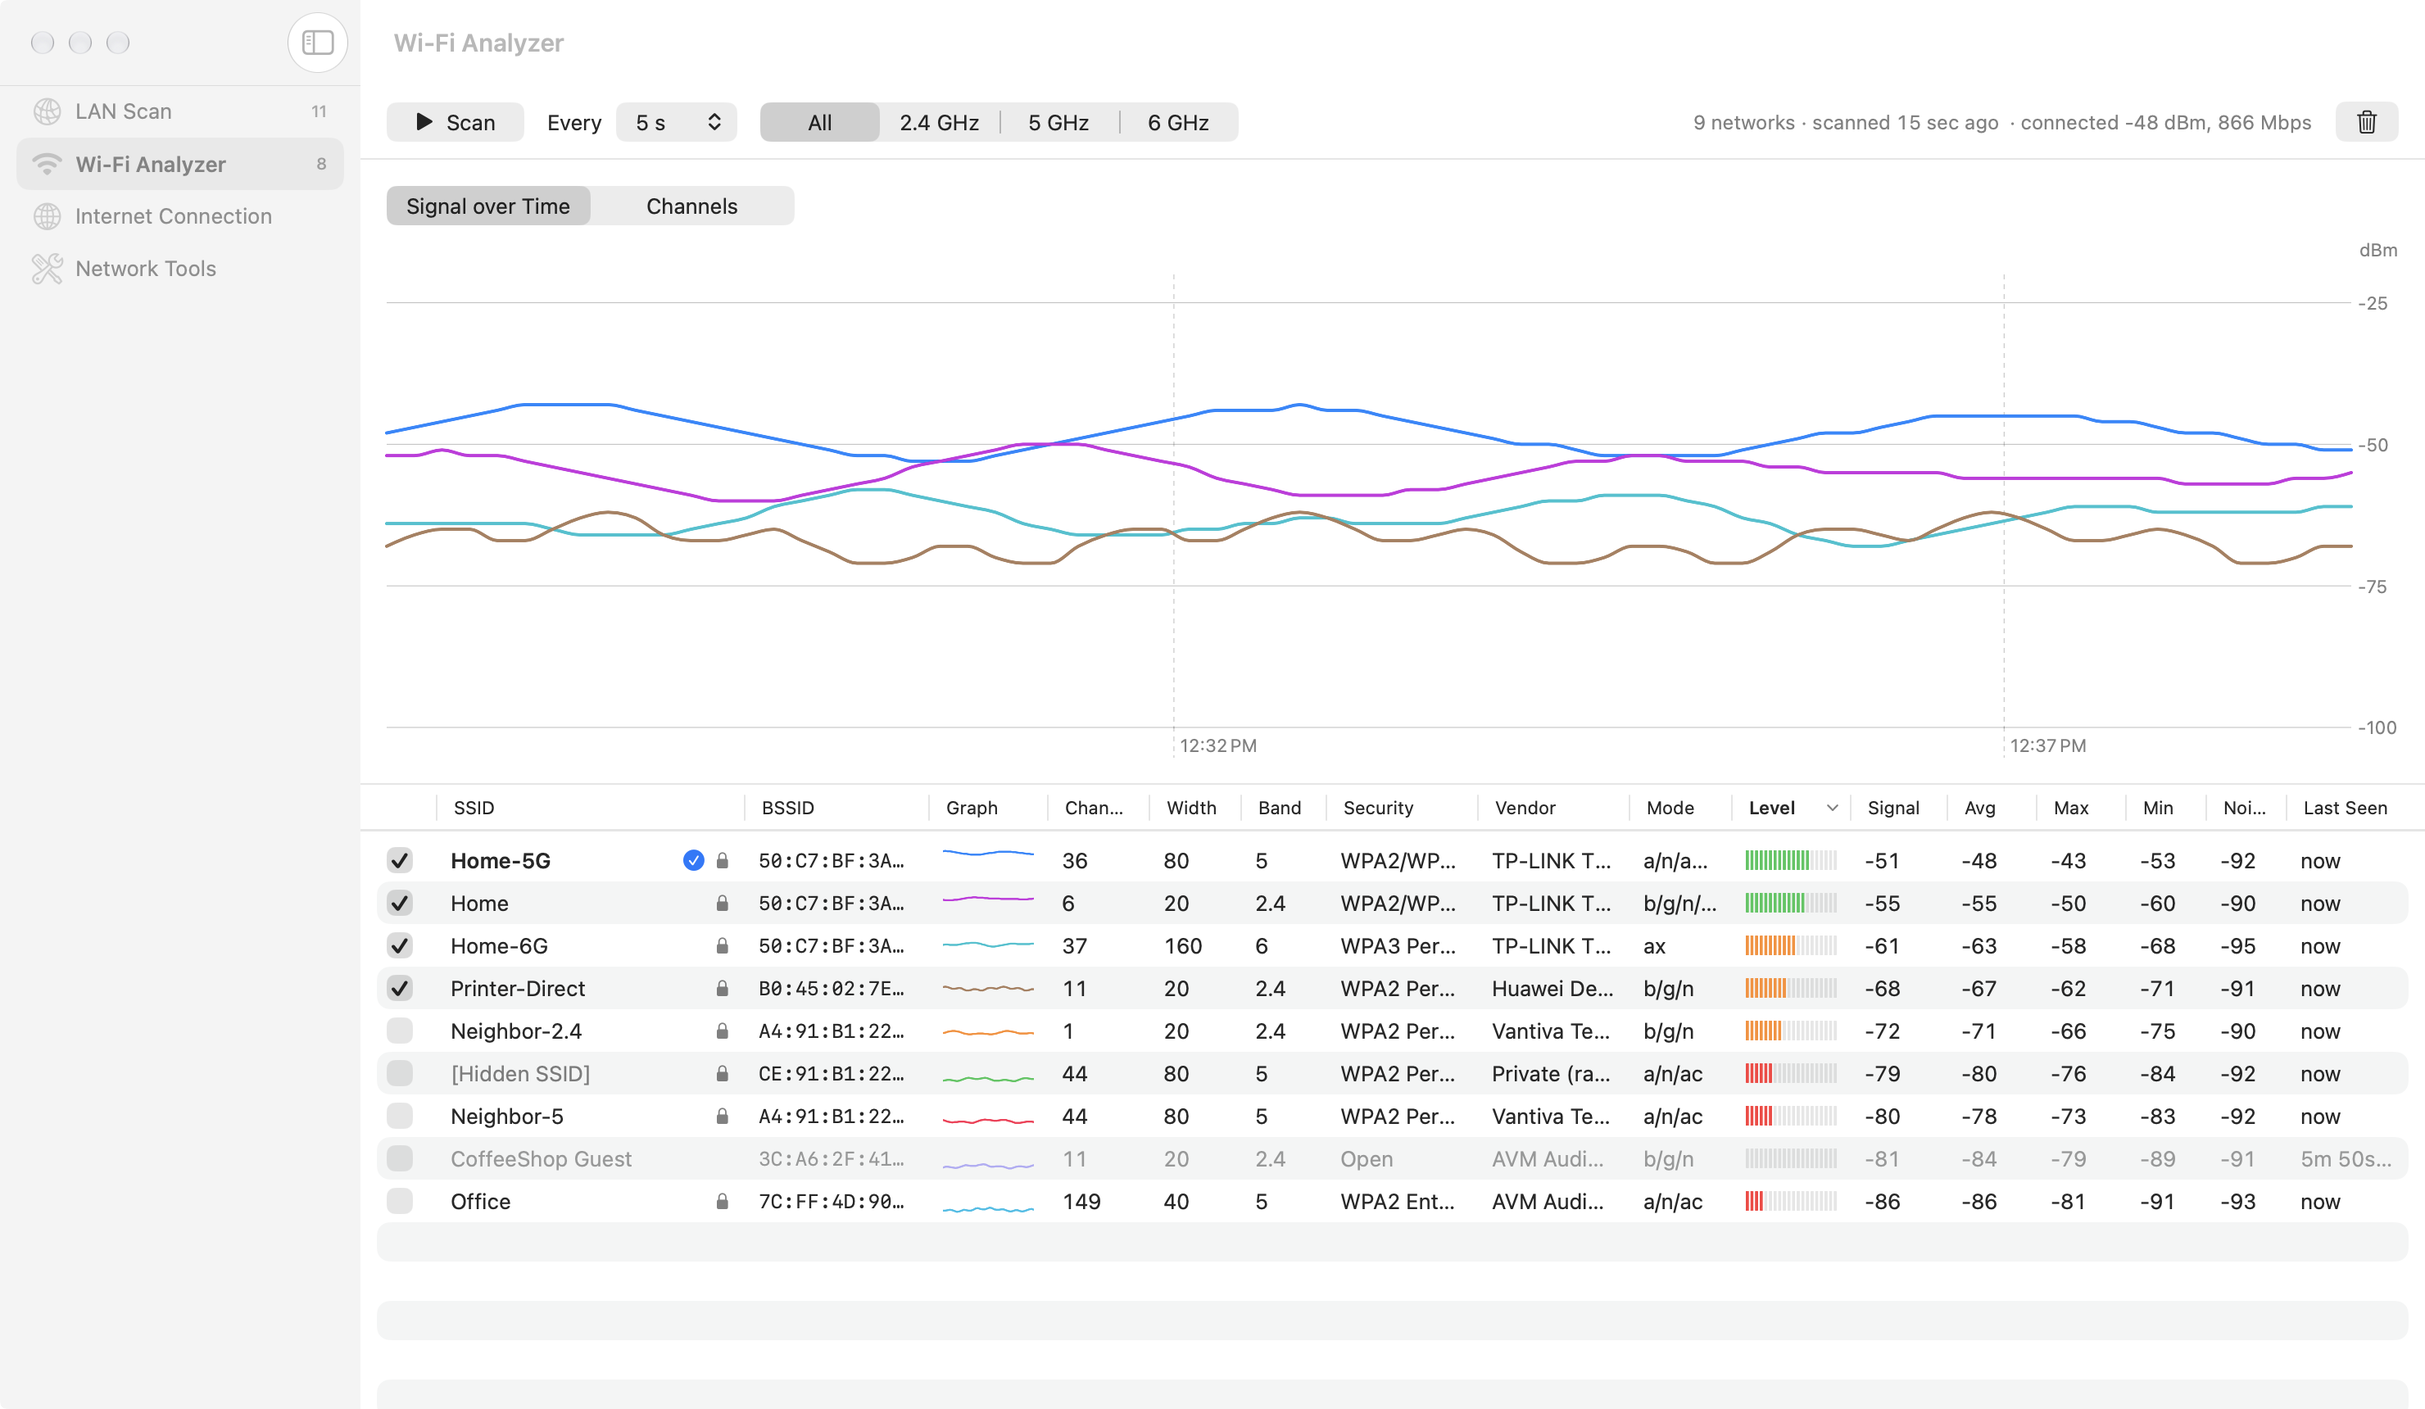
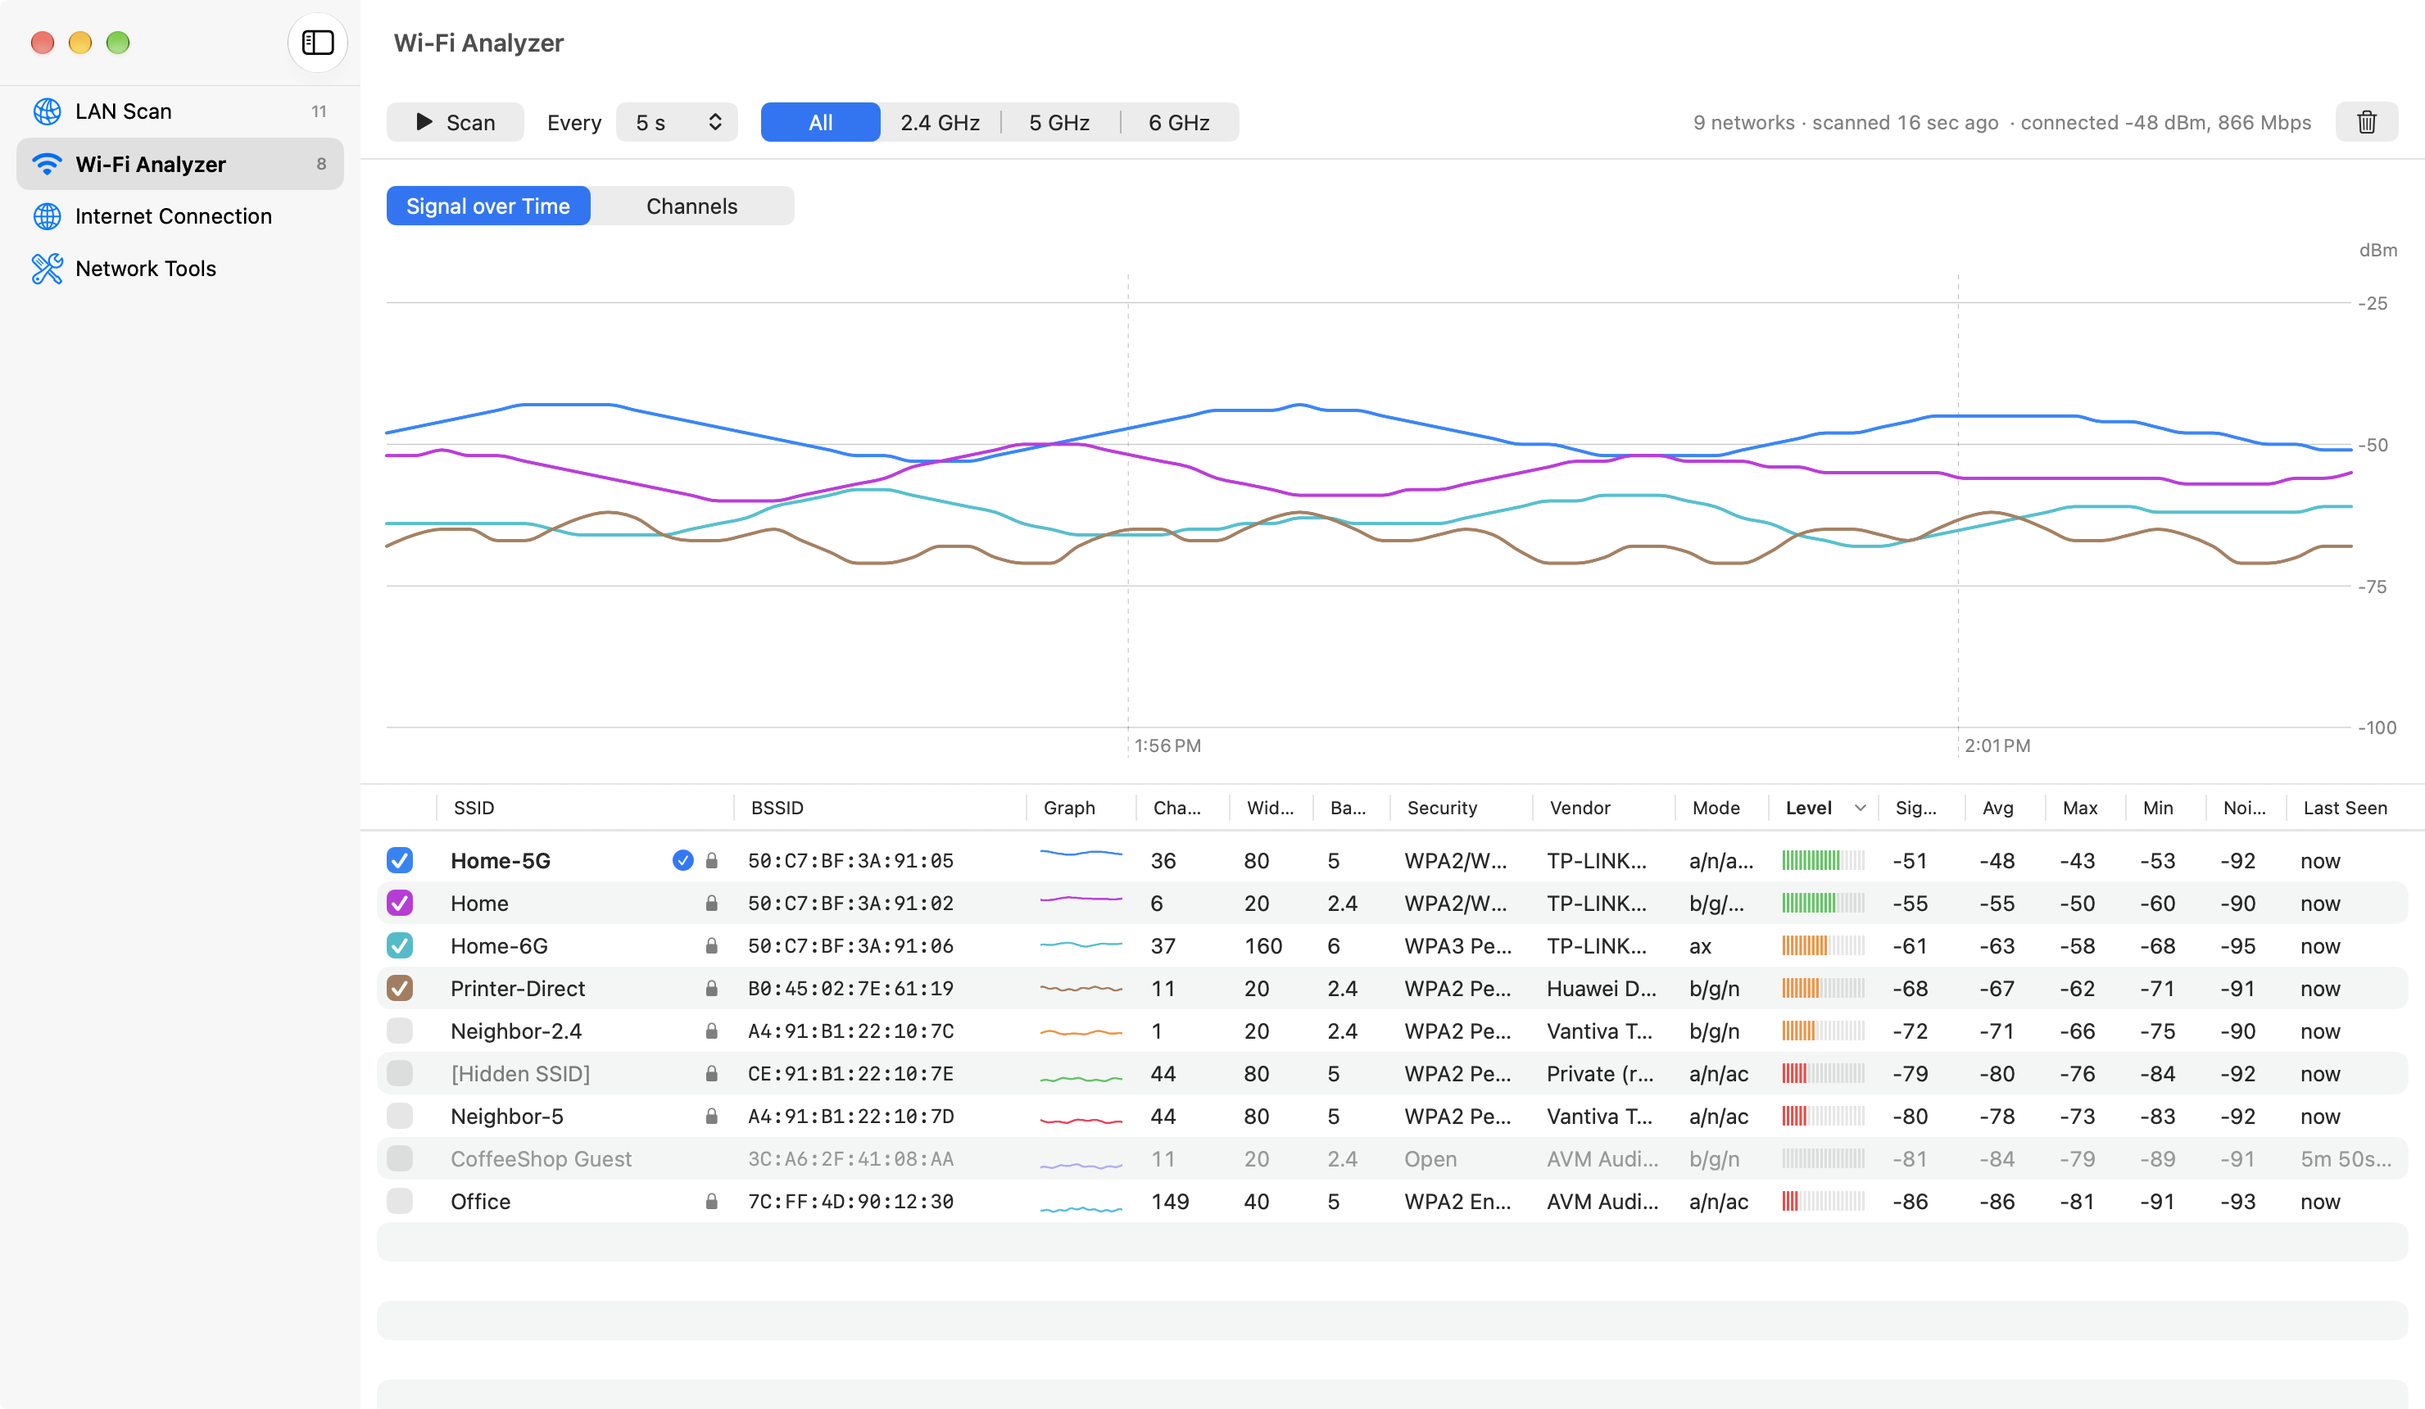
README: refresh for the one-window app, new screenshots
New tagline and overview covering the four sidebar sections, an Install
section (DMG and Gatekeeper), features in sidebar order, a device-history
section with its own screenshot, and every screenshot retaken with the
window active.

diff --git a/README.md b/README.md
@@ -5,7 +5,8 @@
 <h1 align="center">NetScanner</h1>
 
 <p align="center">
-  A native macOS network scanner: discover every device on your LAN, see who it is, ping it and scan its ports.<br>
+  A native macOS network toolkit: discover and identify every device on your LAN, analyze nearby Wi-Fi,<br>
+  check your Internet connection and speed, and run ping, traceroute, DNS and whois — all in one window.<br>
   SwiftUI · macOS 15+ · App Sandbox · no root required
 </p>
 
@@ -13,18 +14,31 @@
 
 ## Overview
 
-NetScanner sweeps the subnets of your Mac's network interfaces and lists every device that answers: its IPv4 and IPv6 addresses, MAC address, vendor, name and latency. Select a host to see everything that was detected about it, give it your own name and a comment, run a continuous ping with live statistics, or scan its TCP ports, with web interfaces turned into clickable links.
+Everything lives in one window, with a sidebar for its four sections:
 
-Everything lives in one window: the sidebar switches between **LAN Scan**, **Wi-Fi Analyzer**, **Internet Connection** and **Network Tools**.
+- **LAN Scan** sweeps the subnets of your Mac's network interfaces and lists every device that answers: IPv4 and IPv6 addresses, MAC, vendor, type, model, name and latency. Select a host to see everything detected about it, give it your own name and a comment, ping it with live statistics, scan its TCP/UDP ports or look at the IP addresses it has used over time.
+- **Wi-Fi Analyzer** lists the access points around you with their channel, band, security and signal, charted over time or across channels.
+- **Internet Connection** shows your ISP and public addresses and measures your speed.
+- **Network Tools** runs ping, traceroute, DNS lookup and whois against any domain or address.
 
 It runs entirely inside the macOS App Sandbox and needs no administrator privileges or helper tools.
 
 ![Hosts found on a home network, with the inspector showing the details of a NAS](docs/screenshots/hosts.png)
 
+## Install
+
+Download the latest `NetScanner-<version>.dmg` from [Releases](https://github.com/lsrur/NetScanner/releases/latest), open it and drag NetScanner to Applications.
+
+The app is ad-hoc signed (no Apple Developer ID), so macOS blocks the first launch. Either try to open it once, then go to **System Settings → Privacy & Security** and click **Open Anyway**, or run:
+
+```sh
+xattr -dr com.apple.quarantine /Applications/NetScanner.app
+```
+
 ## Features
 
-### Host discovery
-- Scans **all active interfaces at once**, each on its own subnet, or a single interface, or your **saved ranges** (`192.168.0.100-200`, `10.0.0.0/23`, single IPs, comma-separated).
+### LAN scan: host discovery
+- Scans **all active interfaces at once**, each on its own subnet, or a single interface, or your **saved ranges** (`192.168.1.100-200`, `10.0.0.0/23`, single IPs, comma-separated).
 - Finds hosts with **ICMP ping**, falling back to **TCP probes** for devices that ignore pings, and picks up silent devices from the ARP cache.
 - Shows, per host:
   - **IPv4**, **IPv6 link-local** and **IPv6 global** addresses
@@ -45,14 +59,14 @@ It runs entirely inside the macOS App Sandbox and needs no administrator privile
 - The **default gateway** is tagged in the table, and the scan summary lists it together with the **DNS servers** in use.
 - Sortable table, **CSV export**, and copy actions for IP, IPv6, MAC and hostname.
 
-### Ping
+### LAN scan: ping
 - Configurable count (or continuous) and interval.
 - Live **aggregate statistics**: sent, received, **packet loss**, **min / avg / max**, **standard deviation** and **jitter**.
 - RTT chart and a per-packet log.
 
 ![Pinging a TV: loss, min/avg/max, standard deviation, jitter and the RTT chart](docs/screenshots/ping.png)
 
-### Port scanning
+### LAN scan: port scanning
 - Editable **port lists**. It ships with *Top 100* (nmap's most common ports), *Home/IoT* (NAS, media servers, cameras, home automation, TVs, printers, Apple devices), *1–1024* and *1–65535*, and you can add your own.
 - For each open port: the service name, an open/closed indicator and a **Details** column with the **banner** the service announces (`OpenSSH 9.6p1`, the web server's `Server` header, FTP/SMTP/POP3/IMAP greetings, MySQL version) or, when it says nothing, a plain-English description of its typical use.
 - **UDP scan** of common services: DNS, TFTP, NTP, NetBIOS, SNMP (reads `sysDescr` with community *public*), SSDP/UPnP, SIP, mDNS, CoAP and Ubiquiti discovery. Each port gets a real request of its protocol, so *open* means it answered; *closed* means an ICMP port-unreachable came back.
@@ -60,15 +74,10 @@ It runs entirely inside the macOS App Sandbox and needs no administrator privile
 
 ![Open ports on a NAS, with service banners, typical uses and clickable http/https links](docs/screenshots/ports.png)
 
-### Network tools
-The **Network Tools** section takes a destination, check the tools to run and press **Run**. They run one after the other, and each one's results appear in a panel as it starts: two panels per row, scrolling down as needed. They are meant for destinations outside your network: inside the LAN a traceroute is a single hop and whois knows nothing about private addresses.
+### LAN scan: device history
+Every device is remembered across scans and launches. The inspector's **History** tab lists each IP address its MAC has used, with when it was first and last seen; when a scan finds it at a new address, the table shows the IP in orange with a ⇄ badge.
 
-- **Ping:** 3 to 50 echo requests, one per second, with the same statistics, chart and log as the inspector's Ping tab.
-- **Traceroute:** the route to any name or address, using the same unprivileged ICMP socket as ping (no root, no helper). Three probes per hop with their round-trip times, hop names from reverse DNS and Bonjour, and a maximum of 15, 30 or 64 hops.
-- **DNS Lookup:** A, AAAA, CNAME, MX, NS, TXT, SOA, SRV and PTR records (or all the common ones at once) through the system resolver, with TTLs. An IPv4 address is looked up as PTR.
-- **Whois:** domains and public IP addresses, starting at IANA and following referrals to the registry and the registrar.
-
-![Network Tools: ping, traceroute, DNS and whois results for example.com in four panels](docs/screenshots/tools.png)
+![A phone that moved to a new IP: orange address in the table, and its address history in the inspector](docs/screenshots/history.png)
 
 ### Wi-Fi analyzer
 The **Wi-Fi Analyzer** section scans the nearby Wi-Fi networks every few seconds while it's shown. For each access point (BSSID): SSID, channel, channel width, band, security, vendor, supported 802.11 modes, a signal meter, current/average/max/min signal, noise and when it was last seen, plus a sparkline of its signal. The chart above the table has two tabs: **Signal over Time** plots the checked networks, and **Channels** draws each checked network as an arch over the channels it occupies (20–160 MHz, bonded blocks centered where they really are), as tall as its signal, so crowded channels stand out. Networks missing from three scans in a row fade out (a single scan never catches every network). macOS limits how often apps can scan, so fresh results arrive about every 15–20 seconds whatever the interval. Filter by band (2.4, 5 or 6 GHz).
@@ -77,12 +86,22 @@ macOS only reveals network names and BSSIDs to apps with **Location** access, so
 
 ![Wi-Fi Analyzer: signal chart of the checked networks above a table of nearby access points](docs/screenshots/wifi.png)
 
-![Wi-Fi Analyzer channels tab: each 2.4 GHz network as an arch over its channels](docs/screenshots/wifi-channels.png)
+![Wi-Fi Analyzer channels tab: each checked 2.4 GHz network as an arch over its channels](docs/screenshots/wifi-channels.png)
 
 ### Internet connection
 The **Internet Connection** section shows your **ISP**, its **AS number**, your **public IPv4 and IPv6** addresses and their **location**, refreshed automatically when your network changes. It also runs a **speed test**: download and upload capacity, idle latency and responsiveness under load, measured by macOS's built-in `networkQuality` against Apple's servers.
 
 ![Internet Connection: ISP, ASN, public addresses, location and speed test results](docs/screenshots/internet.png)
+
+### Network tools
+The **Network Tools** section takes a domain or IP address and runs the tools you check when you press **Run**. They run one after the other, and each one's results appear in a panel as it starts: two panels per row, scrolling down as needed. They are meant for destinations outside your network: inside the LAN a traceroute is a single hop and whois knows nothing about private addresses.
+
+- **Ping:** 3 to 50 echo requests, one per second, with the same statistics, chart and log as the inspector's Ping tab.
+- **Traceroute:** the route to any name or address, using the same unprivileged ICMP socket as ping (no root, no helper). Three probes per hop with their round-trip times, hop names from reverse DNS and Bonjour, and a maximum of 15, 30 or 64 hops.
+- **DNS Lookup:** A, AAAA, CNAME, MX, NS, TXT, SOA, SRV and PTR records (or all the common ones at once) through the system resolver, with TTLs. An IPv4 address is looked up as PTR.
+- **Whois:** domains and public IP addresses, starting at IANA and following referrals to the registry and the registrar.
+
+![Network Tools: ping, traceroute, DNS and whois results for example.com in four panels](docs/screenshots/tools.png)
 
 ## Using NetScanner
 
@@ -114,10 +133,16 @@ Toggle it with the inspector button (▯▮) in the toolbar. With **no host sele
 
 With a host selected, the top shows its IP plus editable **Name** and **Comment** fields (saved as you type), and four tabs:
 
-- **Info:** everything detected about the host: Bonjour, NetBIOS and DNS names, all IPv6 addresses, MAC, vendor, latency, discovery source and interface.
+- **Info:** everything detected about the host: type and model, Bonjour, NetBIOS and DNS names, all IPv6 addresses, MAC, vendor, first and last seen, latency, discovery source, interface and advertised services.
 - **Ping:** pick a count and interval, then **Start Ping**.
 - **Ports:** choose **TCP** or **UDP**. For TCP pick a port list (✏ edits the lists) and a timeout, then **Scan Ports**. Hover a row to read the full banner and what the port is typically used for. Click an **http ↗ / https ↗** link to open the web interface, or double-click the row.
 - **History:** every IP address the device has used (followed by its MAC), with when each was first and last seen. The current one is tagged **Current**, and the one it just left **Previous**.
+
+### Wi-Fi analyzer
+Select **Wi-Fi Analyzer** in the sidebar (⌘2) and allow Location access when asked (or later in System Settings → Privacy & Security → Location Services). Scanning runs while the section is shown and stops when you switch away; **Pause** stops it earlier, **Every** sets the interval and the 🗑 button forgets the history. Switch the chart between **Signal over Time** and **Channels** (pick the band there when the filter is **All**). Check a row to chart it; click a column header to sort, or right-click it to show or hide columns.
+
+### Internet connection
+Select **Internet Connection** in the sidebar (⌘3). Click ↻ to look up the public addresses again, and **Run Speed Test** to measure the connection (about 20 seconds; **Stop** cancels it).
 
 ### Network tools
 Select **Network Tools** in the sidebar (⌘4).
@@ -127,12 +152,6 @@ Select **Network Tools** in the sidebar (⌘4).
 3. Press **Run**, Return or ⌘↩. The tools run in that order; each panel shows a spinner while its tool runs and **✓** when it's done. **Stop** cancels the rest; a tool cut short keeps its partial results, marked **Stopped**.
 
 The section keeps the last results until you run it again, even while you use the others.
-
-### Wi-Fi analyzer
-Select **Wi-Fi Analyzer** in the sidebar (⌘2) and allow Location access when asked (or later in System Settings → Privacy & Security → Location Services). Scanning runs while the section is shown and stops when you switch away; **Pause** stops it earlier, **Every** sets the interval and the 🗑 button forgets the history. Switch the chart between **Signal over Time** and **Channels** (pick the band there when the filter is **All**). Check a row to chart it; click a column header to sort, or right-click it to show or hide columns.
-
-### Internet connection
-Select **Internet Connection** in the sidebar (⌘3). Click ↻ to look up the public addresses again, and **Run Speed Test** to measure the connection (about 20 seconds; **Stop** cancels it).
 
 ### Status bar
 Appears at the bottom only while a scan runs (progress and hosts found) or when there's no Internet connection.
@@ -195,7 +214,7 @@ scripts/update-services.sh   # service names from /etc/services
 ```
 
 Debug builds also accept some environment variables, handy for screenshots: `NETSCANNER_AUTOSCAN=1` scans all interfaces on launch, `NETSCANNER_SELECT=<ip>` selects that host when the scan ends, and `NETSCANNER_SORT=firstSeen` starts with the newest devices first.
-The README screenshots come from `NETSCANNER_DEMO=hosts|ping|ports|wifi|wifi-channels|wifi-live|history|moved|new|summary|internet|tools|netping|trace|dns|whois`, which loads a fictional network (see `NetScanner/App/DemoData.swift`).
+The README screenshots come from `NETSCANNER_DEMO=hosts|ping|ports|history|wifi|wifi-channels|internet|trace` (also `moved`, `new`, `summary`, `tools`, `netping`, `dns`, `whois`, and `wifi-live` for real Wi-Fi scans), which loads a fictional network (see `NetScanner/App/DemoData.swift`).
 
 ```sh
 NETSCANNER_AUTOSCAN=1 build/Build/Products/Debug/NetScanner.app/Contents/MacOS/NetScanner
